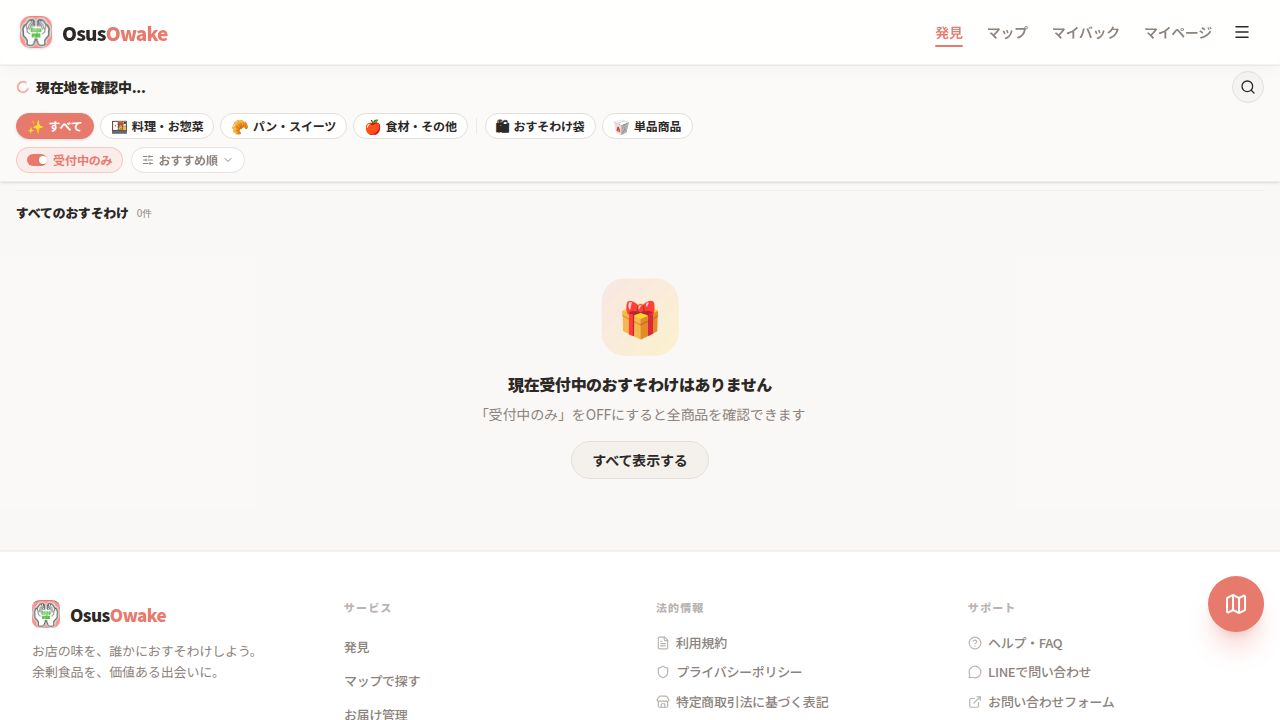
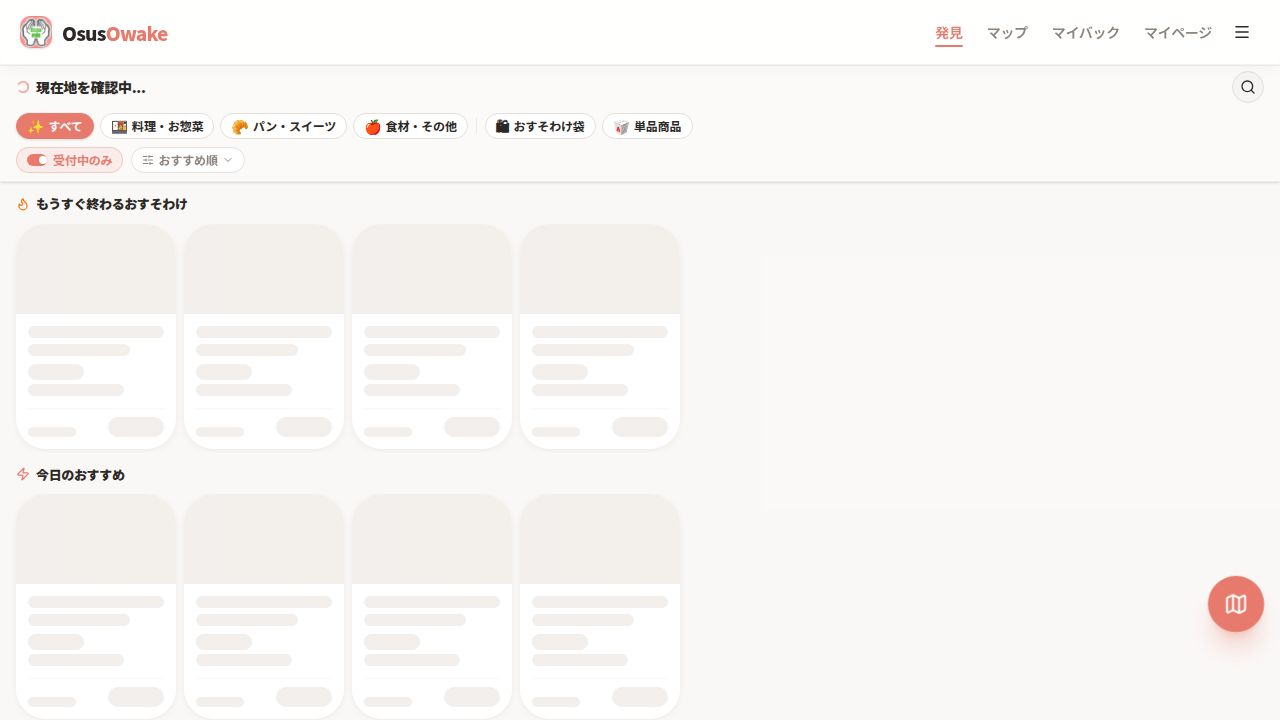
Improve layout and fix display issues on various screens
Update `maps-loader.ts` to hide Google Maps error dialogs, adjust layout calculations in `Home.tsx` for safe area compatibility, and refine header padding in `SearchPage.tsx`.

Replit-Commit-Author: Agent
Replit-Commit-Session-Id: 1ac48701-ff10-4aff-ad47-57d34b045737
Replit-Commit-Checkpoint-Type: full_checkpoint
Replit-Commit-Event-Id: 96acdc7c-6107-4d63-b22b-054c6b3c4d3f
Replit-Commit-Screenshot-Url: https://storage.googleapis.com/screenshot-production-us-central1/77a30fd7-5987-4f0d-8ba0-66504bb80d25/1ac48701-ff10-4aff-ad47-57d34b045737/hSb3n05
Replit-Helium-Checkpoint-Created: true

diff --git a/artifacts/rescueat/src/lib/maps-loader.ts b/artifacts/rescueat/src/lib/maps-loader.ts
@@ -5,6 +5,31 @@ export const MAPS_API_KEY = (import.meta.env.VITE_IS_CAPACITOR === 'true')
   ? ''
   : ((import.meta.env.VITE_MAPS_API_KEY as string) || '');
 
+// In Capacitor: suppress the Google Maps error dialog (appears even with empty key).
+// Inject CSS to hide it, and use a MutationObserver to auto-click OK if it appears.
+if (import.meta.env.VITE_IS_CAPACITOR === 'true') {
+  const style = document.createElement('style');
+  style.textContent = '.gm-err-container, .gm-err-autocomplete { display: none !important; }';
+  document.head.appendChild(style);
+
+  const observer = new MutationObserver(() => {
+    const errBox = document.querySelector<HTMLElement>('.gm-err-container');
+    if (errBox) {
+      errBox.style.display = 'none';
+      const btn = errBox.querySelector<HTMLElement>('button, [role="button"]');
+      if (btn) btn.click();
+    }
+    // Also hide any iframe-based error overlays Google Maps injects
+    document.querySelectorAll<HTMLElement>('div[style*="z-index: 1000"] > div > div').forEach(el => {
+      if (el.textContent?.includes('Google マップ') && el.textContent?.includes('正しく読み込まれ')) {
+        const parent = el.closest<HTMLElement>('div[style*="z-index"]');
+        if (parent) parent.style.display = 'none';
+      }
+    });
+  });
+  observer.observe(document.body, { childList: true, subtree: true });
+}
+
 const SCRIPT_ID = 'rescueat-google-maps';
 let _promise: Promise<void> | null = null;
 

diff --git a/artifacts/rescueat/src/pages/Home.tsx b/artifacts/rescueat/src/pages/Home.tsx
@@ -435,11 +435,13 @@ export default function Home() {
 
   return (
     <Layout>
-      <div className="flex flex-col h-dvh md:h-auto md:flex-1 md:min-h-0 overflow-hidden">
+      <div
+        className="flex flex-col overflow-hidden md:h-auto md:flex-1 md:min-h-0"
+        style={{ height: 'calc(100dvh - env(safe-area-inset-top))' }}
+      >
 
         {/* ── Sticky ヘッダー ── */}
-        <div className="shrink-0 bg-background border-b border-border/50 z-20 shadow-sm"
-          style={{ paddingTop: 'env(safe-area-inset-top)' }}>
+        <div className="shrink-0 bg-background border-b border-border/50 z-20 shadow-sm">
 
           {/* Row 1: エリア名 ←→ 🔔 + 検索アイコン */}
           <div className="flex items-center gap-2 px-4 h-11">
@@ -579,6 +581,7 @@ export default function Home() {
         <div
           ref={scrollRef}
           className="flex-1 overflow-y-auto bg-secondary/10 scroll-smooth-native"
+          style={{ paddingBottom: 'calc(64px + env(safe-area-inset-bottom))' }}
           onTouchStart={dismissKeyboard}
           onClick={() => showSort && setShowSort(false)}
         >

diff --git a/artifacts/rescueat/src/pages/SearchPage.tsx b/artifacts/rescueat/src/pages/SearchPage.tsx
@@ -761,8 +761,8 @@ export default function SearchPage() {
       <div className={`flex flex-col ${view === 'map' ? 'flex-1 min-h-0 h-full' : ''}`}>
 
         {/* ── Sticky スリムフィルターバー ── */}
-        <div className="sticky z-30 bg-background/97 backdrop-blur-md border-b border-border/40 px-3 pb-1.5 shrink-0"
-          style={{ top: 0, paddingTop: 'calc(env(safe-area-inset-top) + 0.5rem)' }}>
+        <div className="sticky z-30 bg-background/97 backdrop-blur-md border-b border-border/40 px-3 pb-1.5 shrink-0 pt-2"
+          style={{ top: 0 }}>
 
           {/* Row 1: 検索バー */}
           <div className="relative mb-1.5">